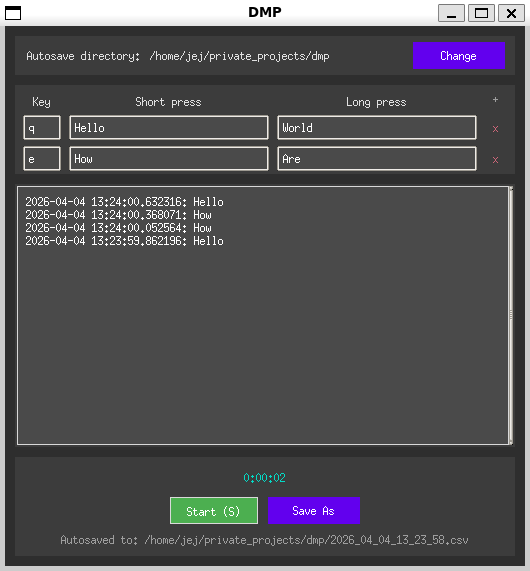
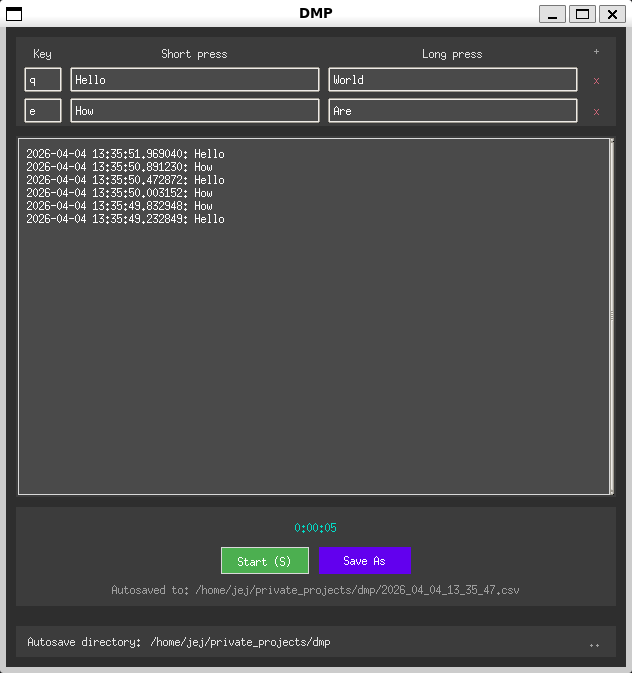
Updated the UI a bit more.

diff --git a/src/dmp/main.py b/src/dmp/main.py
@@ -32,7 +32,7 @@ COLORS = {
     "stop": "#F44336",
     "stop_active": "#D32F2F",
 }
-FONT = "Segoe UI" if sys.platform == "win32" else "Helvetica"
+FONT = "Helvetica"
 
 
 def apply_theme(root):
@@ -212,8 +212,8 @@ class KeyBoardListener:
         self._click_listeners = []
         self._long_listeners = []
         if frame:
-            frame.bind("<KeyPress>", self._on_key_down)
-            frame.bind("<KeyRelease>", self._on_key_up)
+            frame.bind_all("<KeyPress>", self._on_key_down)
+            frame.bind_all("<KeyRelease>", self._on_key_up)
 
     def on_click(self, callback):
         self._click_listeners.append(callback)
@@ -291,8 +291,8 @@ class App:
     def __init__(self):
         self.root = tk.Tk()
         self.root.title("DMP")
-        self.root.geometry("520x540")
-        self.root.minsize(480, 400)
+        self.root.geometry("620x640")
+        self.root.minsize(560, 500)
         apply_theme(self.root)
 
         self.t = None
@@ -322,10 +322,10 @@ class App:
         self.keyboard.on_click(self.on_key_click)
         self.keyboard.on_long_click(self.on_key_long_click)
 
-        self.dir_frame = self.create_dir_picker()
         self.top_frame = self.create_top()
         self.mid_frame = self.create_middle()
         self.bot_frame = self.create_bottom()
+        self.dir_frame = self.create_dir_picker()
 
     def runloop(self):
         self.root.mainloop()
@@ -354,11 +354,11 @@ class App:
         )
         dir_label.pack(side="left", fill="x", expand=True)
         dir_label.bind("<Configure>", lambda e: dir_label.configure(wraplength=e.width))
-        ttk.Button(frame, text="Change", command=self._change_save_dir).pack(
-            side="right", padx=10, pady=6
-        )
+        ttk.Button(
+            frame, text="...", style="Icon.TButton", command=self._change_save_dir
+        ).pack(side="right", padx=10, pady=6)
 
-        frame.pack(fill="x", padx=10, pady=(10, 0))
+        frame.pack(fill="x", padx=10, pady=(10, 10))
         return frame
 
     def create_top(self):
